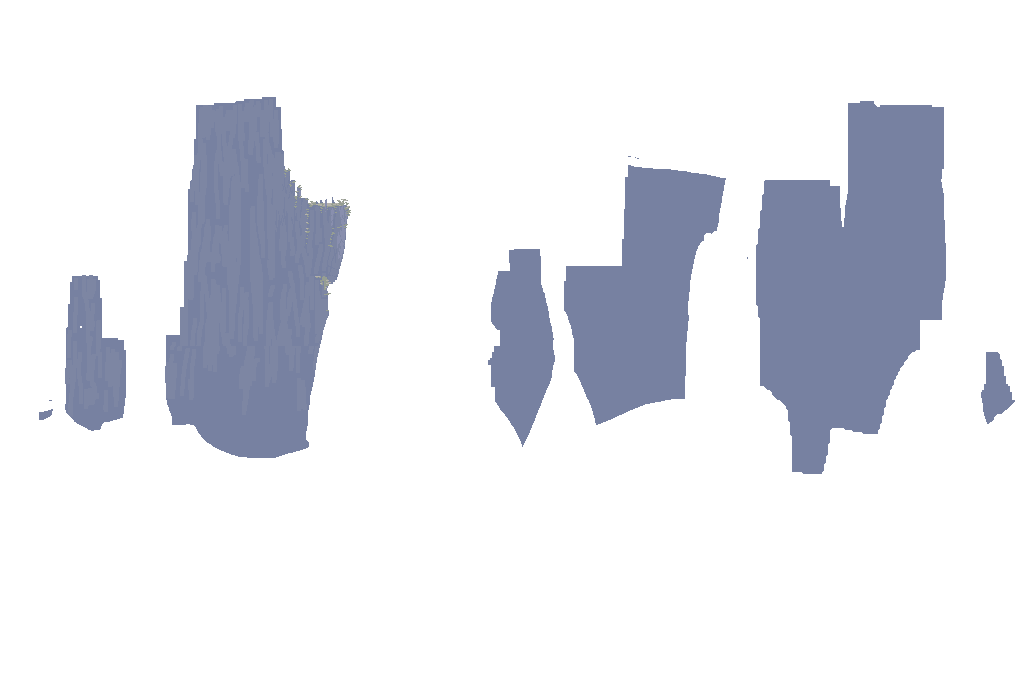
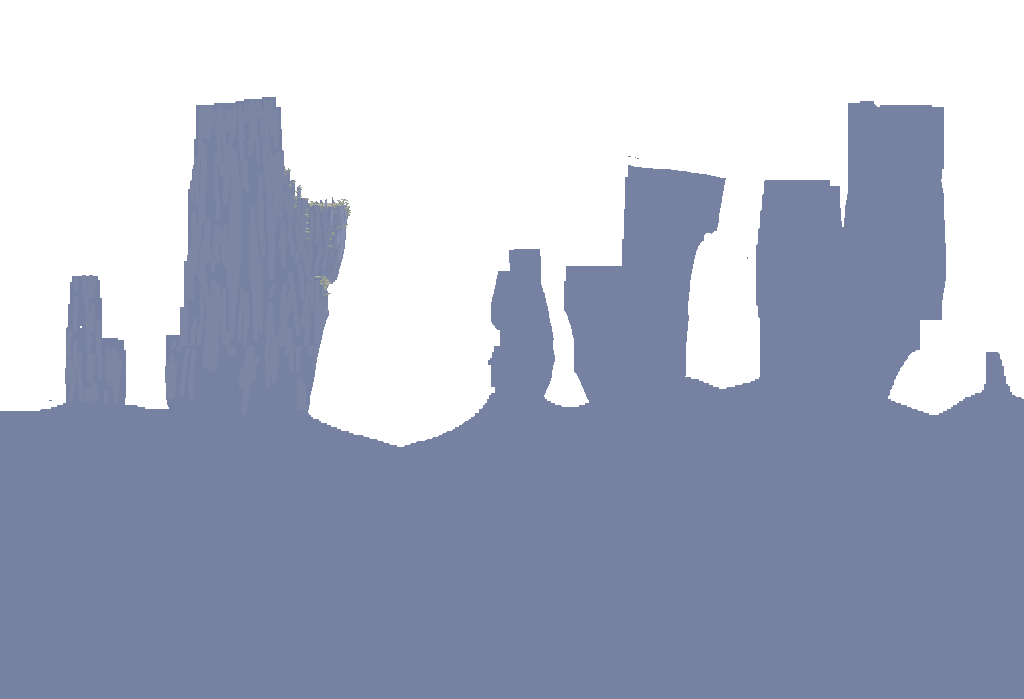
fog stub

diff --git a/src/GodseekerBoss/Content/Aerie/Environment/Background.cs b/src/GodseekerBoss/Content/Aerie/Environment/Background.cs
@@ -1,4 +1,5 @@
 using Daybreak.Common.Features.Hooks;
+using Daybreak.Common.Rendering;
 using Microsoft.Xna.Framework;
 using Microsoft.Xna.Framework.Graphics;
 using MonoMod.Cil;
@@ -8,6 +9,8 @@ using Terraria.GameContent.Skies;
 using Terraria.Graphics.Effects;
 using Terraria.ModLoader;
 using BackgroundTextures = GodseekerBoss.GeneratedAssets.Assets.Images.Aerie.Backgrounds.Textures;
+using MiscTextures = GodseekerBoss.GeneratedAssets.Assets.Images.Textures;
+using MiscShaders = GodseekerBoss.GeneratedAssets.Assets.Effects;
 
 namespace GodseekerBoss.Content.Aerie.Environment;
 
@@ -15,10 +18,16 @@ public class AerieBackground : ModSurfaceBackgroundStyle
 {
     #region Edits
 
+    private static readonly Color far_fog_color = new(195, 154, 243);
+    private static readonly Color mid_fog_color = new(208, 189, 255);
+
     [OnLoad]
     private static void Load()
     {
-        IL_Main.DoDraw += DoDraw_CaptureSky;
+        On_Main.DrawSurfaceBG_BackMountainsStep1 += DrawSurfaceBG_BackMountainsStep1_Fog;
+        On_Main.DrawSurfaceBG_BackMountainsStep2 += On_Main_DrawSurfaceBG_BackMountainsStep2;
+
+        IL_Main.DoDraw += DoDraw_CorrectSamplerState;
 
         On_AmbientSky.FadingSkyEntity.Update += Update_DisableSkyEntities;
         On_AmbientSky.FadingSkyEntity.UpdateOpacity += UpdateOpacity_HideSkyEntities;
@@ -28,7 +37,45 @@ public class AerieBackground : ModSurfaceBackgroundStyle
         On_Main.DrawStarsInBackground += DrawStarsInBackground_Gradient;
     }
 
-    private static void DoDraw_CaptureSky(ILContext il)
+    private static void DrawSurfaceBG_BackMountainsStep1_Fog(On_Main.orig_DrawSurfaceBG_BackMountainsStep1 orig, Main self, double backgroundTopMagicNumber, float bgGlobalScaleMultiplier, int pushBGTopHack)
+    {
+        orig(self, backgroundTopMagicNumber, bgGlobalScaleMultiplier, pushBGTopHack);
+
+        if (AerieSubworld.Active)
+        {
+            DrawFog(Main.spriteBatch, far_fog_color);
+        }
+    }
+
+    private static void On_Main_DrawSurfaceBG_BackMountainsStep2(On_Main.orig_DrawSurfaceBG_BackMountainsStep2 orig, Main self, int pushBGTopHack)
+    {
+        orig(self, pushBGTopHack);
+
+        if (AerieSubworld.Active)
+        {
+            DrawFog(Main.spriteBatch, mid_fog_color);
+        }
+    }
+
+    private static void DrawFog(SpriteBatch spriteBatch, Color color)
+    {
+        spriteBatch.End(out var snapshot);
+        Main.spriteBatch.Begin(snapshot with { SortMode = SpriteSortMode.Immediate, SamplerState = SamplerState.LinearWrap });
+        {
+            int size = Math.Max(Main.screenWidth, Main.screenHeight);
+
+            MiscShaders.AerieFog.Parallax = (float)(Main.screenPosition.X * Main.instance.bgParallax) / Main.screenWidth;
+
+            MiscShaders.AerieFog.Time = Main.GlobalTimeWrappedHourly * 0.15f * ((float)Main.instance.bgParallax + 1f);
+
+            MiscShaders.AerieFog.Apply();
+
+            spriteBatch.Draw(MiscTextures.CoherentNoise, new Rectangle(0, Main.instance.bgTopY + 200, size, size), color);
+        }
+        spriteBatch.Restart(in snapshot);
+    }
+
+    private static void DoDraw_CorrectSamplerState(ILContext il)
     {
         var c = new ILCursor(il);
 